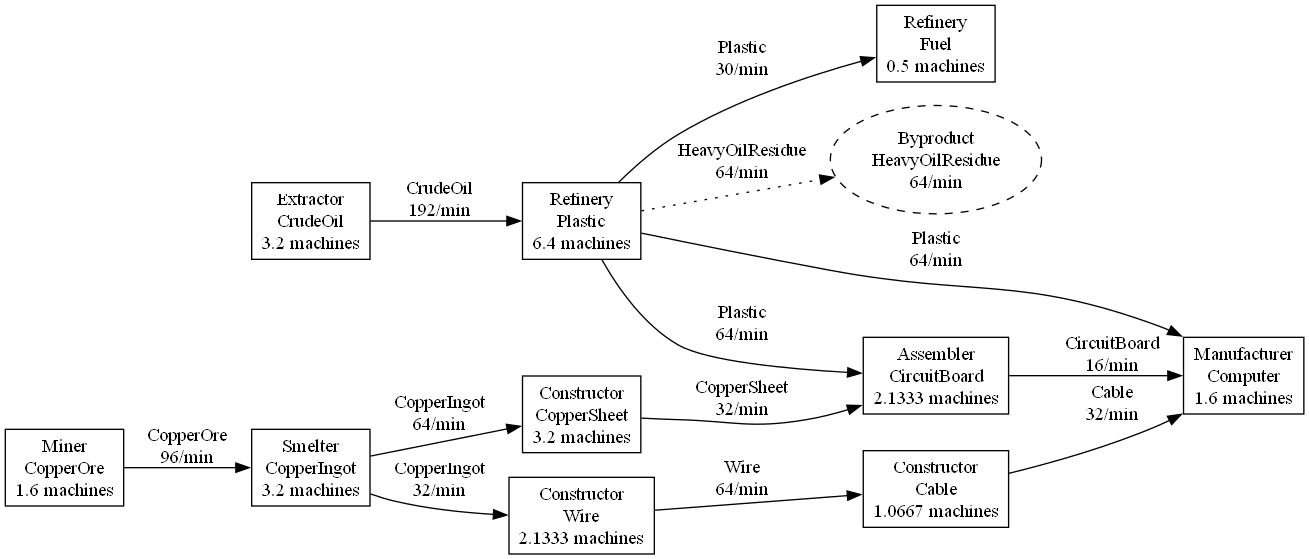
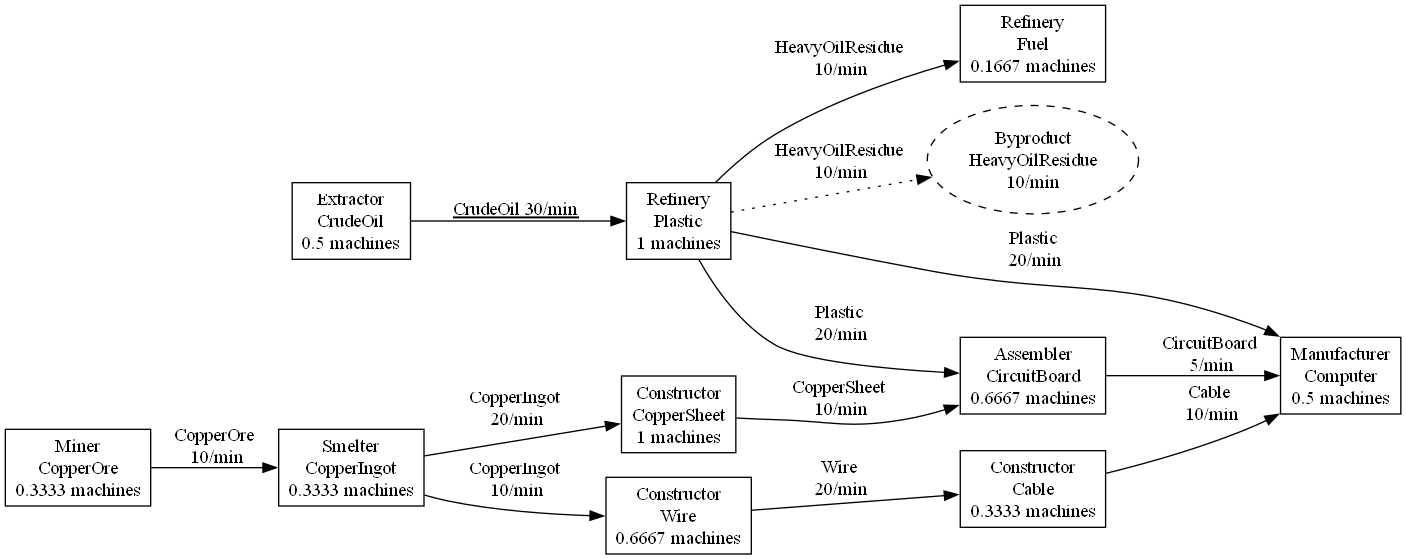
working ish

diff --git a/Satis Modeller/MachineNode.cs b/Satis Modeller/MachineNode.cs
@@ -13,17 +13,99 @@ public class MachineNode(Recipe recipe, MachineType type)
     public List<MachineNode> Inputs { get; set; } = [];
     public List<MachineNode> Outputs { get; set; } = [];
 
+    public double? OutputLimit { get; set; }
+    public bool IsBottleneck => CalculateIsBottleneck();
+
+    private bool CalculateIsBottleneck()
+    {
+        if (OutputLimit == null)
+            return false;
+
+        var recipeOutput = Recipe.Output.Amount;
+
+        var productionAmount = recipeOutput * MachineCount;
+
+        return productionAmount.Equals(OutputLimit);
+    }
+
     public void SetOutputRate(double desiredOutputPerMinute)
     {
         var demandMap = new Dictionary<MachineNode, double>();
         CalculateRequiredOutputs(this, desiredOutputPerMinute, demandMap);
 
-        foreach (var kv in demandMap)
+        foreach (var (node, rate) in demandMap)
         {
-            var node = kv.Key;
-            var rate = kv.Value;
             var perMachineOutput = node.Recipe.Output.Amount;
             node.MachineCount = rate / perMachineOutput;
+        }
+    }
+
+    public void MaximizeOutput()
+    {
+        var visited = new HashSet<MachineNode>();
+        PropagateForward(this, visited);
+
+        // here we go again
+        visited.Clear();
+        PropagateBack(this, visited);
+    }
+
+    private static void PropagateForward(MachineNode node, HashSet<MachineNode> visited)
+    {
+        if (!visited.Add(node)) return;
+
+        foreach (var input in node.Inputs)
+            PropagateForward(input, visited);
+
+        var limitingInputRatio = double.MaxValue;
+
+        foreach (var input in node.Recipe.Inputs)
+        {
+            var supplyingNode = node.Inputs.FirstOrDefault(n =>
+                n.Recipe.Output.Resource == input.Resource ||
+                n.Recipe.Byproduct?.Resource == input.Resource);
+
+            if (supplyingNode == null) continue;
+
+            var availableRate = supplyingNode.GetTotalOutputAmount(input.Resource);
+            var requiredPerMachine = input.Amount;
+
+            var ratio = availableRate / requiredPerMachine;
+            limitingInputRatio = Math.Min(limitingInputRatio, ratio);
+        }
+
+        if (node.OutputLimit.HasValue)
+        {
+            var maxByOutput = node.OutputLimit.Value / node.Recipe.Output.Amount;
+            limitingInputRatio = Math.Min(limitingInputRatio, maxByOutput);
+        }
+
+        node.MachineCount = limitingInputRatio;
+
+        foreach (var output in node.Outputs)
+            PropagateForward(output, visited);
+    }
+
+    private static void PropagateBack(MachineNode node, HashSet<MachineNode> visited)
+    {
+        if (!visited.Add(node)) return;
+
+        foreach (var input in node.Recipe.Inputs)
+        {
+            var inputRateNeeded = input.Amount * node.MachineCount;
+
+            var supplyingNode = node.Inputs.FirstOrDefault(n =>
+                n.Recipe.Output.Resource == input.Resource ||
+                n.Recipe.Byproduct?.Resource == input.Resource);
+
+            if (supplyingNode == null)
+                continue;
+
+            var requiredMachines = inputRateNeeded / supplyingNode.Recipe.Output.Amount;
+
+            supplyingNode.MachineCount = Math.Min(supplyingNode.MachineCount, requiredMachines);
+
+            PropagateBack(supplyingNode, visited);
         }
     }
 
@@ -40,9 +122,7 @@ public class MachineNode(Recipe recipe, MachineType type)
             var totalInputNeeded = (rate / amount) * inputPerMachine;
 
             foreach (var inputNode in node.Inputs.Where(inputNode => inputNode.Recipe.Output.Resource == input.Resource))
-            {
                 CalculateRequiredOutputs(inputNode, totalInputNeeded, demandMap);
-            }
         }
     }
 
@@ -84,13 +164,13 @@ public class MachineNode(Recipe recipe, MachineType type)
         var longestInputAmountName = Recipe.Inputs.Max(i => i.Amount.ToString(CultureInfo.InvariantCulture).Length);
 
         var remainingInputs = Recipe.Inputs.ToList();
-        var remainingOutputs = new List<ItemNode> { Recipe.Output, Recipe.Byproduct };
+        var remainingOutputs = new List<ItemNode> { Recipe.Output };
+        if (Recipe.Byproduct is {} byproduct)
+            remainingOutputs.Add(byproduct);
 
         var basePadding = 3;
         var resourcePadding = longestInputResourceName;
         var amountPadding = longestInputAmountName + basePadding;
-
-        var row = 0;
 
         while (remainingInputs.Count != 0 || remainingOutputs.Count != 0)
         {
@@ -99,12 +179,17 @@ public class MachineNode(Recipe recipe, MachineType type)
             var input = remainingInputs.FirstOrDefault();
             var output = remainingOutputs.FirstOrDefault();
 
-            var inputString = input == null ? "" : string.Format($"{input.Resource.ToString().PadRight(resourcePadding)} {input.Amount.ToString(CultureInfo.InvariantCulture).PadLeft(amountPadding)}");
+            var inputString = input == null
+                ? ""
+                : string.Format(
+                    $"{input.Resource.ToString().PadRight(resourcePadding)} {input.Amount.ToString(CultureInfo.InvariantCulture).PadLeft(amountPadding)}");
 
-            // if (row == 0)
-                middle = "->";
+            middle = "->";
 
-            var outputString = output == null ? "" : string.Format($"{output.Resource.ToString().PadRight(resourcePadding)} {output.Amount.ToString(CultureInfo.InvariantCulture).PadLeft(amountPadding)}");
+            var outputString = output == null
+                ? ""
+                : string.Format(
+                    $"{output.Resource.ToString().PadRight(resourcePadding)} {output.Amount.ToString(CultureInfo.InvariantCulture).PadLeft(amountPadding)}");
 
             result.AppendLine($"{inputString} {middle} {outputString}");
 
@@ -113,8 +198,6 @@ public class MachineNode(Recipe recipe, MachineType type)
 
             if (output != null)
                 remainingOutputs.Remove(output);
-
-            row++;
         }
 
         return result.ToString();

diff --git a/Satis Modeller/ProductionGraphExporter.cs b/Satis Modeller/ProductionGraphExporter.cs
@@ -1,8 +1,8 @@
-using System.Collections;
 using System.Diagnostics;
 using System.Globalization;
 using System.Text;
-using Satis_Modeller;
+
+namespace Satis_Modeller;
 
 public static class ProductionGraphExporter
 {
@@ -25,12 +25,21 @@ public static class ProductionGraphExporter
 
             foreach (var output in node.Outputs)
             {
-                // find common input and output between two machines
+                // Find the shared resource between this node and its output
                 var resource = GetCommonResource(node, output);
+                var amount = output.GetTotalInputAmount(resource);
 
-                //todo add extension
+                // Generate label text
+                var labelText = GetEdgeLabel(resource, amount);
+
+                // If the node is a bottleneck for this output resource, underline the label
+                var isBottleneck = node.IsBottleneck && node.Recipe.Output.Resource == resource;
+
+                // Use HTML-like label with underline
+                var label = isBottleneck ? $"< <U>{labelText}</U> >" : $"\"{labelText}\"";
+
                 dot.AppendLine(
-                    $"\"{node.GetHashCode()}\" -> \"{output.GetHashCode()}\" [label=\"{GetEdgeLabel(node.Recipe.Output.Resource, output.GetTotalInputAmount(resource))}\"];");
+                    $"\"{node.GetHashCode()}\" -> \"{output.GetHashCode()}\" [label={label}];");
             }
 
             if (IsByProductUsedUp(node))
@@ -109,7 +118,7 @@ public static class ProductionGraphExporter
 
     private static string GetEdgeLabel(Resource resource, double amount)
     {
-        return $"{resource}\n{amount.ToString("0.####", CultureInfo.InvariantCulture)}/min";
+        return $"{resource}\n {amount.ToString("0.####", CultureInfo.InvariantCulture)}/min";
     }
 
     private static Resource GetCommonResource(MachineNode outputMachine, MachineNode inputMachine)

diff --git a/Satis Modeller/Program.cs b/Satis Modeller/Program.cs
@@ -142,6 +142,7 @@ computerManufacturer.AddInput(cableConstructor);
 computerManufacturer.AddInput(plasticRefinery);
 
 circuitBoardAssembler.AddInput(copperSheetConstructor);
+// circuitBoardAssembler.OutputLimit = 3;
 circuitBoardAssembler.AddInput(plasticRefinery);
 
 cableConstructor.AddInput(wireConstructor);
@@ -149,12 +150,13 @@ wireConstructor.AddInput(copperSmelter);
 copperSheetConstructor.AddInput(copperSmelter);
 copperSmelter.AddInput(copperOreMiner);
 
+oilExtractor.OutputLimit = 30;
 plasticRefinery.AddInput(oilExtractor);
 fuelRefinery.AddInput(plasticRefinery);
-// plasticRefinery.AddOutput(fuelRefinery);
 
-computerManufacturer.SetOutputRate(4);
-fuelRefinery.SetOutputRate(20);
+computerManufacturer.MaximizeOutput();
+// computerManufacturer.SetOutputRate(4);
+// fuelRefinery.SetOutputRate(20);
 
 Console.WriteLine($"Computer Manufacturer: {computerManufacturer.MachineCount} machines");
 Console.WriteLine($"Plastic Refinery: {plasticRefinery.MachineCount} machines");
@@ -199,21 +201,8 @@ var allNodes = new List<MachineNode>
     copperSheetConstructor,
     oilExtractor,
     copperOreMiner,
-    fuelRefinery
-    // heavyoilResidueStorage,
+    fuelRefinery,
 };
 
 ProductionGraphExporter.ExportToPng("production_graph", allNodes);
-
-public static class StorageBoxFactory
-{
-    public static MachineNode CreateStorage(Resource resource)
-    {
-        var input = new ItemNode { Resource = resource, Amount = 10 };
-        var dummyRecipe = new Recipe(input, ItemNode.GetEmpty());
-        return new MachineNode(dummyRecipe, MachineType.Box)
-        {
-        };
-    }
-}
 

diff --git a/README.md b/README.md
@@ -1,1 +1,10 @@
 # satis-modeler
+
+Todos:
+- [] i want to add some tests for production lines to ensure they work like they should
+- [] fix the print node function
+- [] differentiate between different types of resources -> Item, fluid
+- [] maybe add abstractions for the different types of machines with preset inputs and outputs
+- [] Calculate power used
+- [] add power slug support
+- [] add Somersloop support
